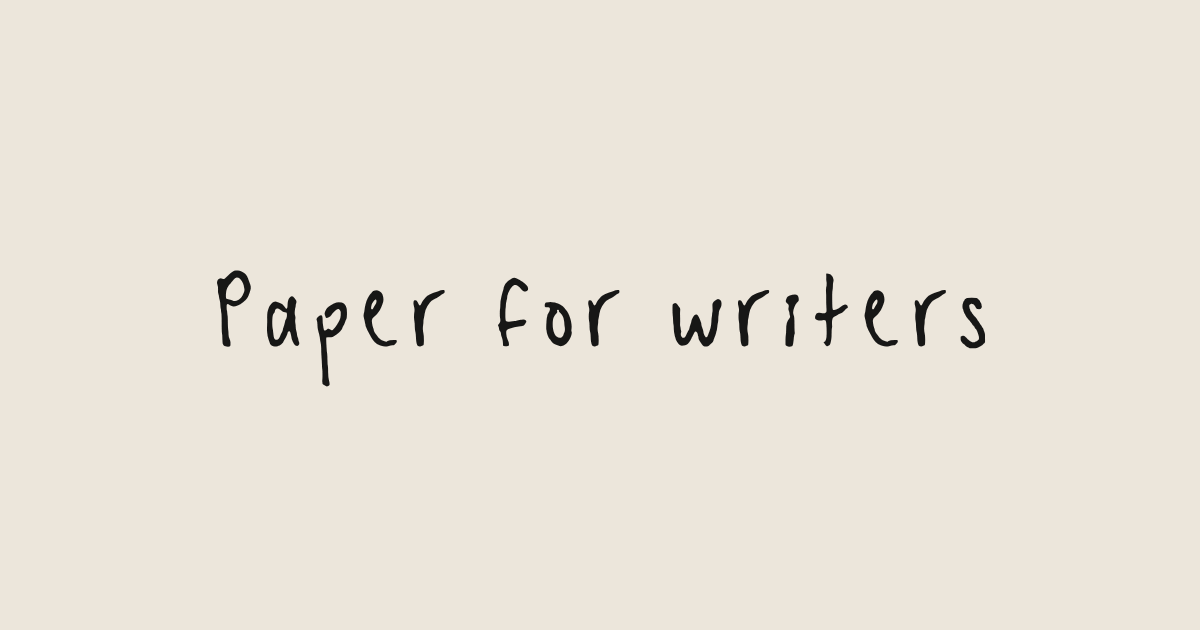
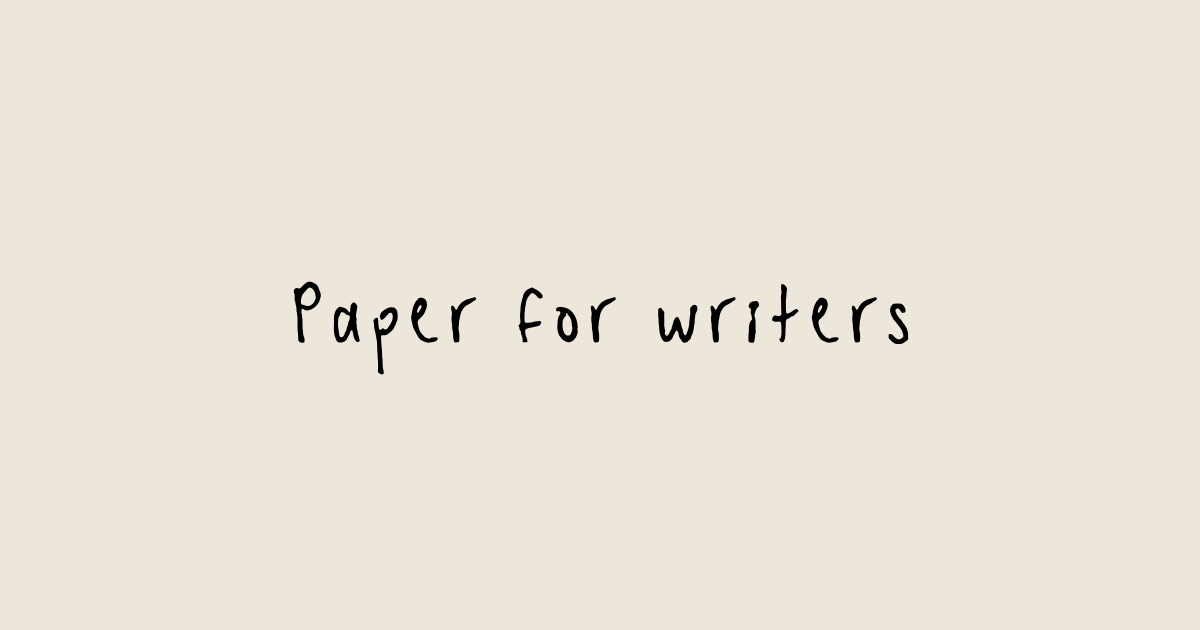
Link preview: "Paper for writers" a fifth smaller
Re-drawn from the Paper Hand font at 80% of its size, centred where it was.
The image link gets ?v=2 so sites that cached the old preview fetch the new one.

Claude-Session: https://claude.ai/code/session_01GtdkSXonN3BwzFbvEnYC89

Changed region(s): [[0.185, 0.4222, 0.7708, 0.6032], [0.7708, 0.4524, 0.8325, 0.573]]

diff --git a/app/web/download.html b/app/web/download.html
@@ -11,7 +11,7 @@
 <meta property="og:title" content="Paper App for Mac">
 <meta property="og:description" content="A surface for writers.">
 <meta property="og:url" content="https://paperwrite.space/download.html">
-<meta property="og:image" content="https://paperwrite.space/assets/og.png">
+<meta property="og:image" content="https://paperwrite.space/assets/og.png?v=2">
 <meta property="og:image:width" content="1200">
 <meta property="og:image:height" content="630">
 <meta property="og:image:alt" content="&quot;Paper for writers&quot; handwritten across an off-white card">

diff --git a/app/index.html b/app/index.html
@@ -11,7 +11,7 @@
 <meta property="og:title" content="Paper">
 <meta property="og:description" content="A surface for writers.">
 <meta property="og:url" content="https://paperwrite.space/">
-<meta property="og:image" content="https://paperwrite.space/assets/og.png">
+<meta property="og:image" content="https://paperwrite.space/assets/og.png?v=2">
 <meta property="og:image:width" content="1200">
 <meta property="og:image:height" content="630">
 <meta property="og:image:alt" content="&quot;Paper for writers&quot; handwritten across an off-white card">
